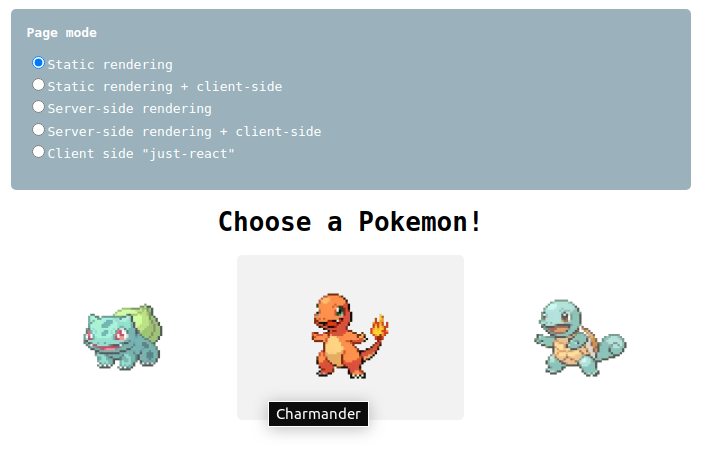
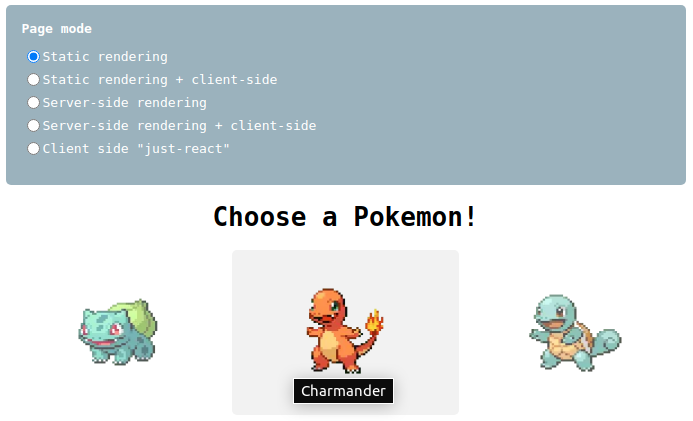
simple style adjustments

diff --git a/src/pages/index.js b/src/pages/index.js
@@ -41,7 +41,6 @@ export default function Home() {
           {pageModes.map((mode) => (
             <li key={mode.value} className="pageModeItem">
               <input
-                style={{ cursor: "pointer" }}
                 type="radio"
                 id={mode.value}
                 value={mode.value}
@@ -109,7 +108,14 @@ export default function Home() {
           }
 
           .pageModeItem {
-            margin-bottom: 0.2rem;
+            display: flex;
+            align-items: center;
+            margin-bottom: 0.5rem;
+          }
+
+          .pageModeItem input {
+            cursor: pointer;
+            margin-top: 0;
           }
 
           .pokemons {
